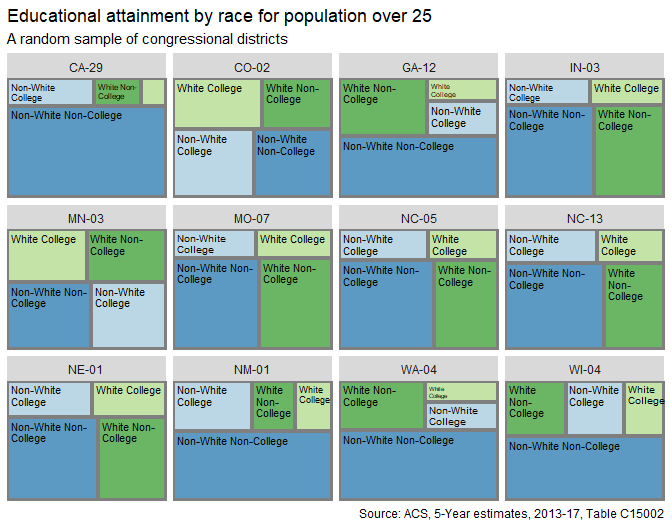
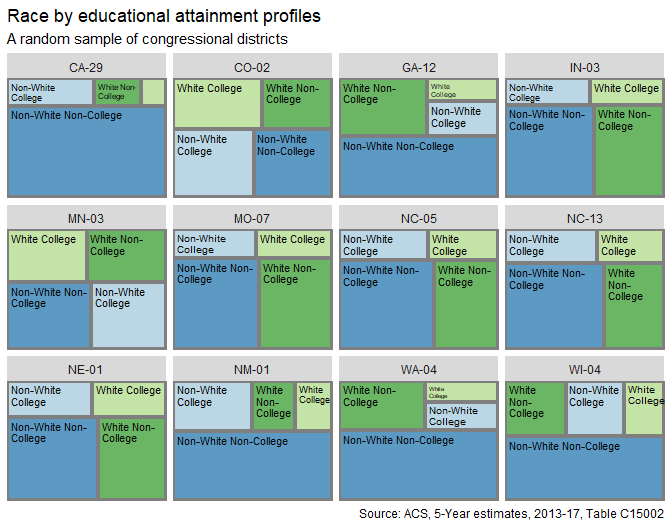
re

Changed region(s): [[0.0, 0.0, 0.6562, 0.0606]]

diff --git a/README.md b/README.md
@@ -10,7 +10,7 @@ Data presented here have been collated from [The Daily Kos](), [CivilServiceUSA]
 -   [3 Political geometries](#3-political-geometries)
 -   [4 Federal election results](#4-Federal-election-results)
 -   [5 Census data and congressional districts](#5-Census-data-and-congressional-districts)
--   [6 Alternative geometries](#6-Alternative-geometries)
+-   [6 Equal-area political geometries](#6-Equal-area-political-geometries)
 -   [7 Summary](#7-Summary)
 
 Hopefully a useful open source & transparent framework for investigating past & future election results and congresses using R. All work presented here can be reproduced in its entirety. A developing resource.
@@ -203,7 +203,7 @@ rvoteview_house_50 %>%
 
 #### 2.3 Political ideologies historically: a party-based overview
 
-> A slightly modified version of [this](https://voteview.com/parties/all) VoteView visualization illustrating the growing ideological divide between major political parties in the US. The gray line reflects overall median ideology scores in the House, and (albeit indirectly) party control of the House historically.
+> A slightly modified version of [this](https://voteview.com/parties/all) VoteView visualization illustrating the growing ideological divide between major political parties in the US. The gray line reflects overall median ideology scores in the House, and roughly approximates party control of the House historically.
 
 ``` r
 rvoteview_house_50 %>%
@@ -479,7 +479,7 @@ tree %>%
       facet_wrap(~paste0(STUSPS, '-', CD115FP)) +
       theme(legend.position = "none",
             legend.title=element_blank()) + 
-      labs(title = "Educational attainment by race for population over 25",
+      labs(title = "Race by educational attainment profiles",
            subtitle = 'A random sample of congressional districts',
            caption = 'Source: ACS, 5-Year estimates, 2013-17, Table C15002')
 ```
@@ -531,7 +531,7 @@ by_pres %>%
 
 ------------------------------------------------------------------------
 
-### 6 Alternative political geometries
+### 6 Equal-area political geometries
 
 > The Daily Kos makes available a set of alternative geometries that represent congressional districts and states as equal-area polygons. As some of the maps presented above attest, America's larger states and congressional districts tend to overwhelm a standard map, and collectively serve to under-represent/hide smaller, more populous urban areas.
 
@@ -674,7 +674,7 @@ dailykos_pres_flips %>%
 
 ![](README_files/figure-markdown_github/unnamed-chunk-37-1.png)
 
-> An equal-area map of congressional districts illustrating presidential voting lineages for the 2008, 20012 & 2016 presidential elections.
+> An equal-area map of congressional districts illustrating voting lineages for the 2008, 20012 & 2016 presidential elections.
 
 ``` r
 dailykos_shapes$cds %>%
@@ -737,7 +737,7 @@ dailykos_pres_flips %>%
 | Romney 12 | Clinton 16 |     15|
 | Romney 12 | Trump 16   |    209|
 
-> Sankey diagramming presidential voting lineages from 2008 to 2012 and 2012 to 2016. Clearly a bit jazzier as an html widget proper.
+> **Sankey diagramming** presidential voting lineages from 2008 to 2012 and 2012 to 2016. Clearly a bit jazzier as an html widget proper.
 
 ``` r
 library(plotly)
